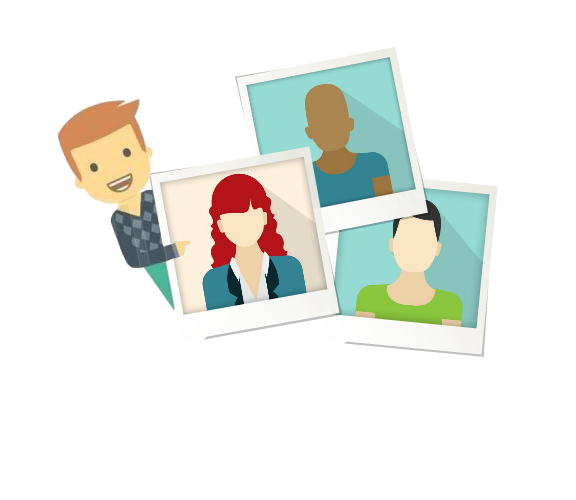
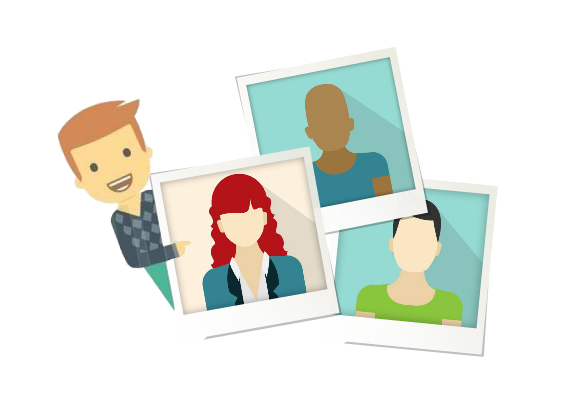
updated the profile picture

diff --git a/profile_picture.php b/profile_picture.php
@@ -16,16 +16,7 @@
 	$sanitiser = new Sanitiser();
 	if(isset($_GET['error'])) $get_error = $sanitiser->sanitise($_GET['error']); else $get_error = false;
 
-	//generate code
-	if(!isset($_GET['error']))
-	{
-		require_once 'code_generator.php';
-		$code = generateRandomString(5);
-		$_SESSION['code'] = $code;
-		//sent email
-		require_once 'create_verification_email.php';
-		//do something here.. idk lol
-	}
+	
 ?>
 <!DOCTYPE HTML>
 <html>
@@ -55,7 +46,7 @@
 						<h2>Upload a Profile Picture!</h2>
 					<div>
 					<article class="feature right">
-						<span class="image"> _ <img src="images/mail.png" alt="" />_</span>
+						<span class="image"> _ <img src="images/profile_picture.png" alt="" />_</span>
 						<div class="content">
 							<form method="post" action="profile_picture.php" validate='validate'>
 								<div class="row uniform 50%">
